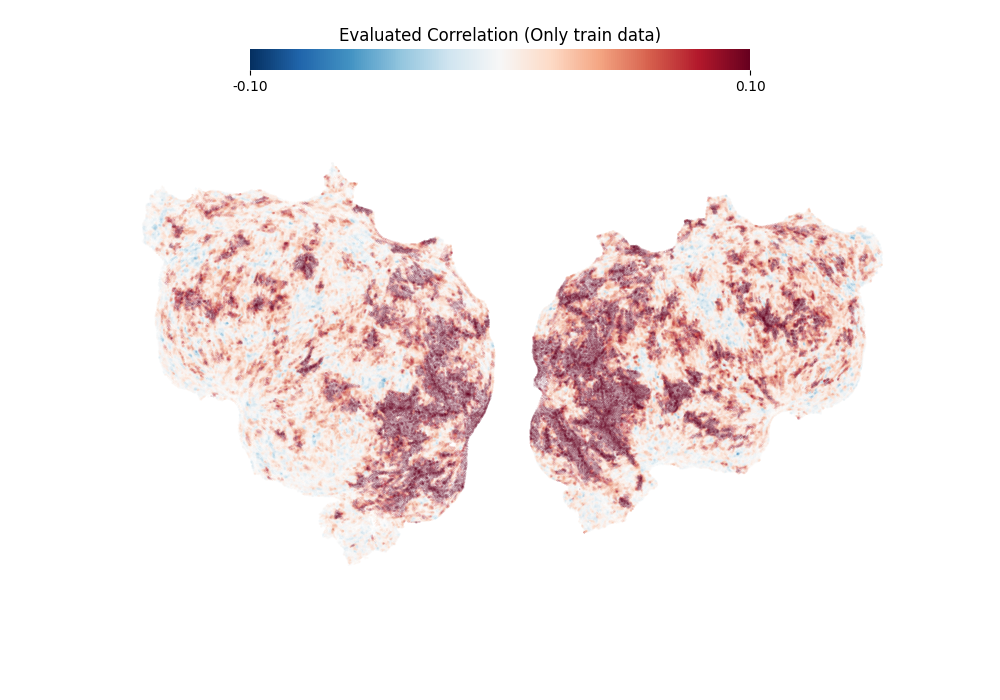
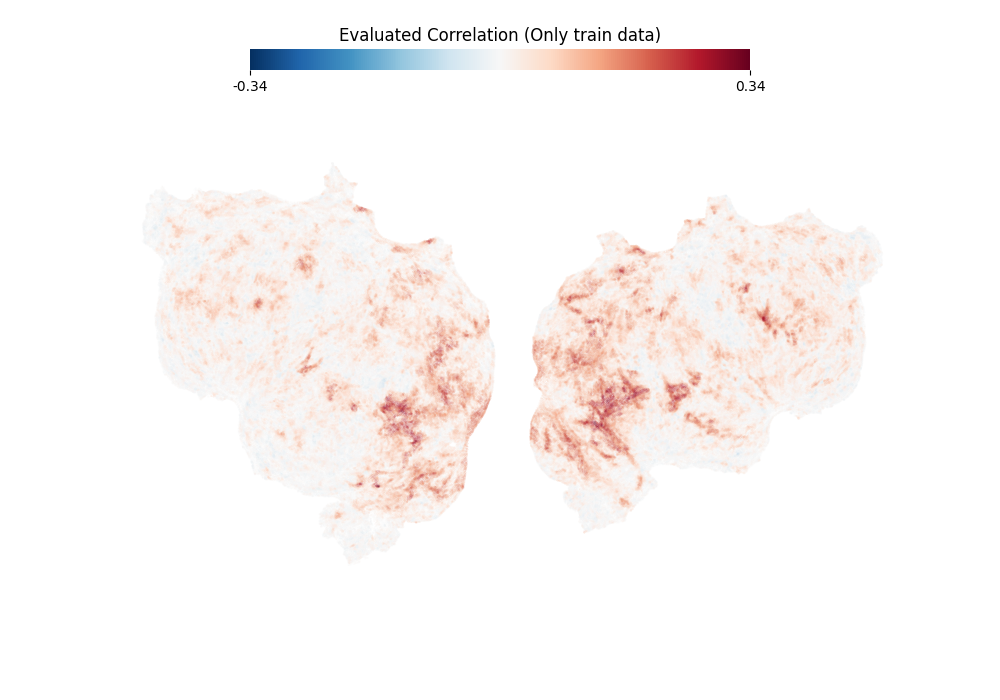
fix visual

diff --git a/visual_tools/visualize_results.py b/visual_tools/visualize_results.py
@@ -16,24 +16,24 @@ def create_flatmap(subject, layer):
     #     except FileNotFoundError:
     #         continue
     try:
-        filepath = f"../results/{layer}/pred_correlations.npy"
+        filepath = f"results/{layer}/pred_correlations.npy"
         data = np.load(filepath)
 
         measure = 'predcorr'
     except FileNotFoundError:
         try:
-            filepath = f"../results/{layer}/predictions.npy"
+            filepath = f"results/{layer}/predictions.npy"
             data = np.load(filepath)
 
             measure = 'pred'
         except FileNotFoundError:
-            filepath = f"../results/{layer}/eval_correlations.npy"
+            filepath = f"results/{layer}/eval_correlations.npy"
             data = np.load(filepath)
 
             measure = 'evalcorr'
 
     # Reverse flattening and masking with an fmri scan
-    fmri_scan = np.load('train_00.npy')
+    fmri_scan = np.load('visual_tools/train_00.npy')
 
     mask = ~np.isnan(fmri_scan[0])
 
@@ -52,7 +52,7 @@ def create_flatmap(subject, layer):
     flattened_data = reconstructed_data.flatten()
 
     # Load mappers
-    map_dir = "../../BridgeTower-Brain/data/fmri_data/mappers"
+    map_dir = "../BridgeTower-Brain/data/fmri_data/mappers"
 
     lh_mapping_matrix = load_npz(f"{map_dir}/{subject}_listening_forVL_lh.npz")
     lh_vertex_data = lh_mapping_matrix @ flattened_data
@@ -63,12 +63,12 @@ def create_flatmap(subject, layer):
     rh_vertex_coords = np.load(f"{map_dir}/{subject}_vertex_coords_rh.npy")
 
     # set vmin, vmax based on measure type
-    if (measure == 'predcorr') | (measure == 'evalcorr'):
+    if measure == 'predcorr':
         vmin = -0.1
         vmax = 0.1
-    elif measure == 'pred':
-        data_max = np.max(abs(np.concatenate((lh_vertex_data,
-                                              rh_vertex_data))))
+    elif (measure == 'pred') | (measure == 'evalcorr'):
+        data_max = np.nanmax(abs(np.concatenate((lh_vertex_data,
+                                                 rh_vertex_data))))
         vmin, vmax = -data_max, data_max
 
     fig, axs = plt.subplots(1, 2, figsize=(10, 7))
